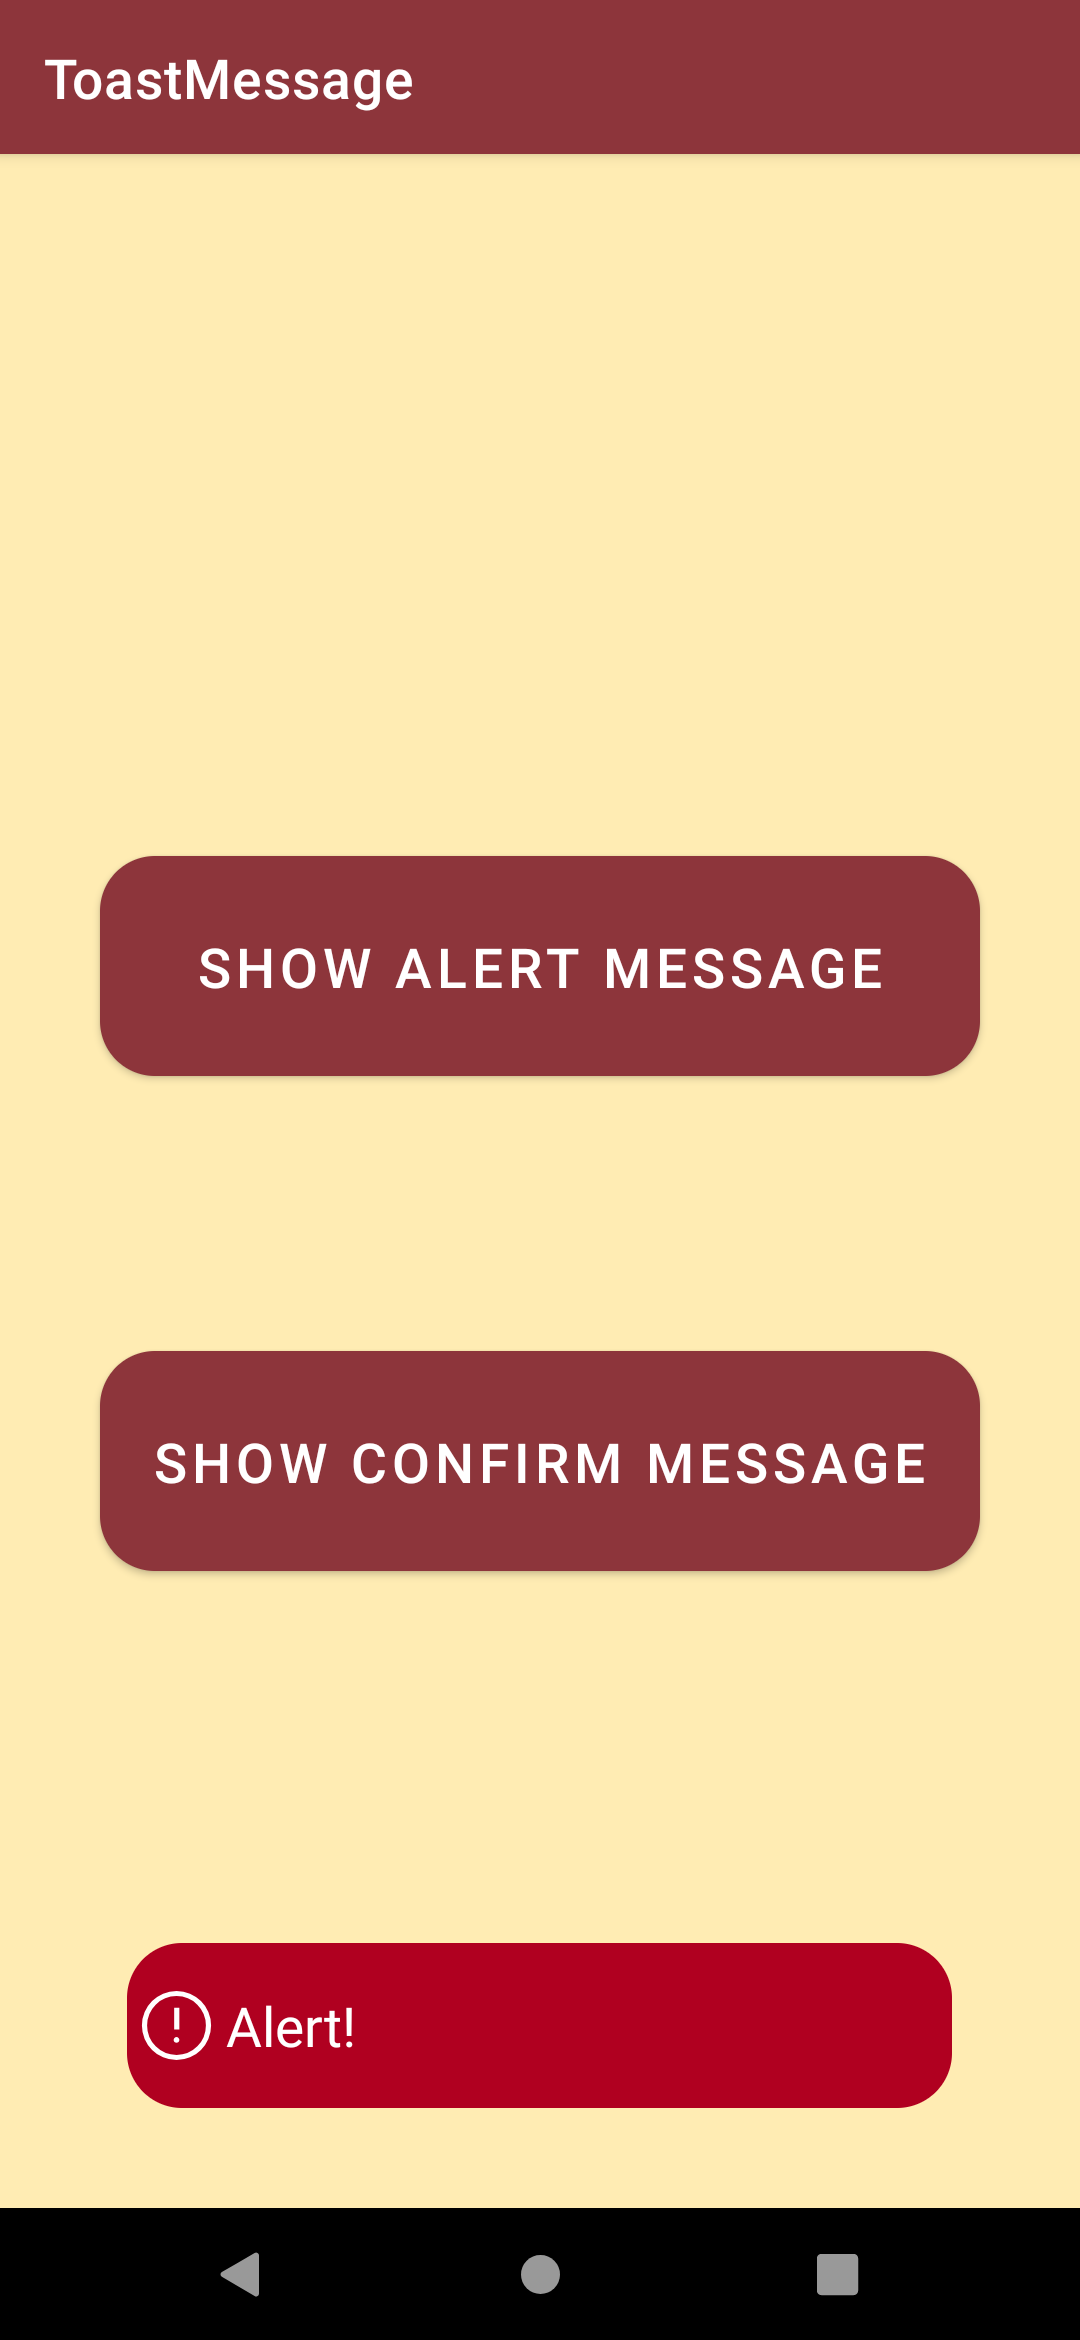
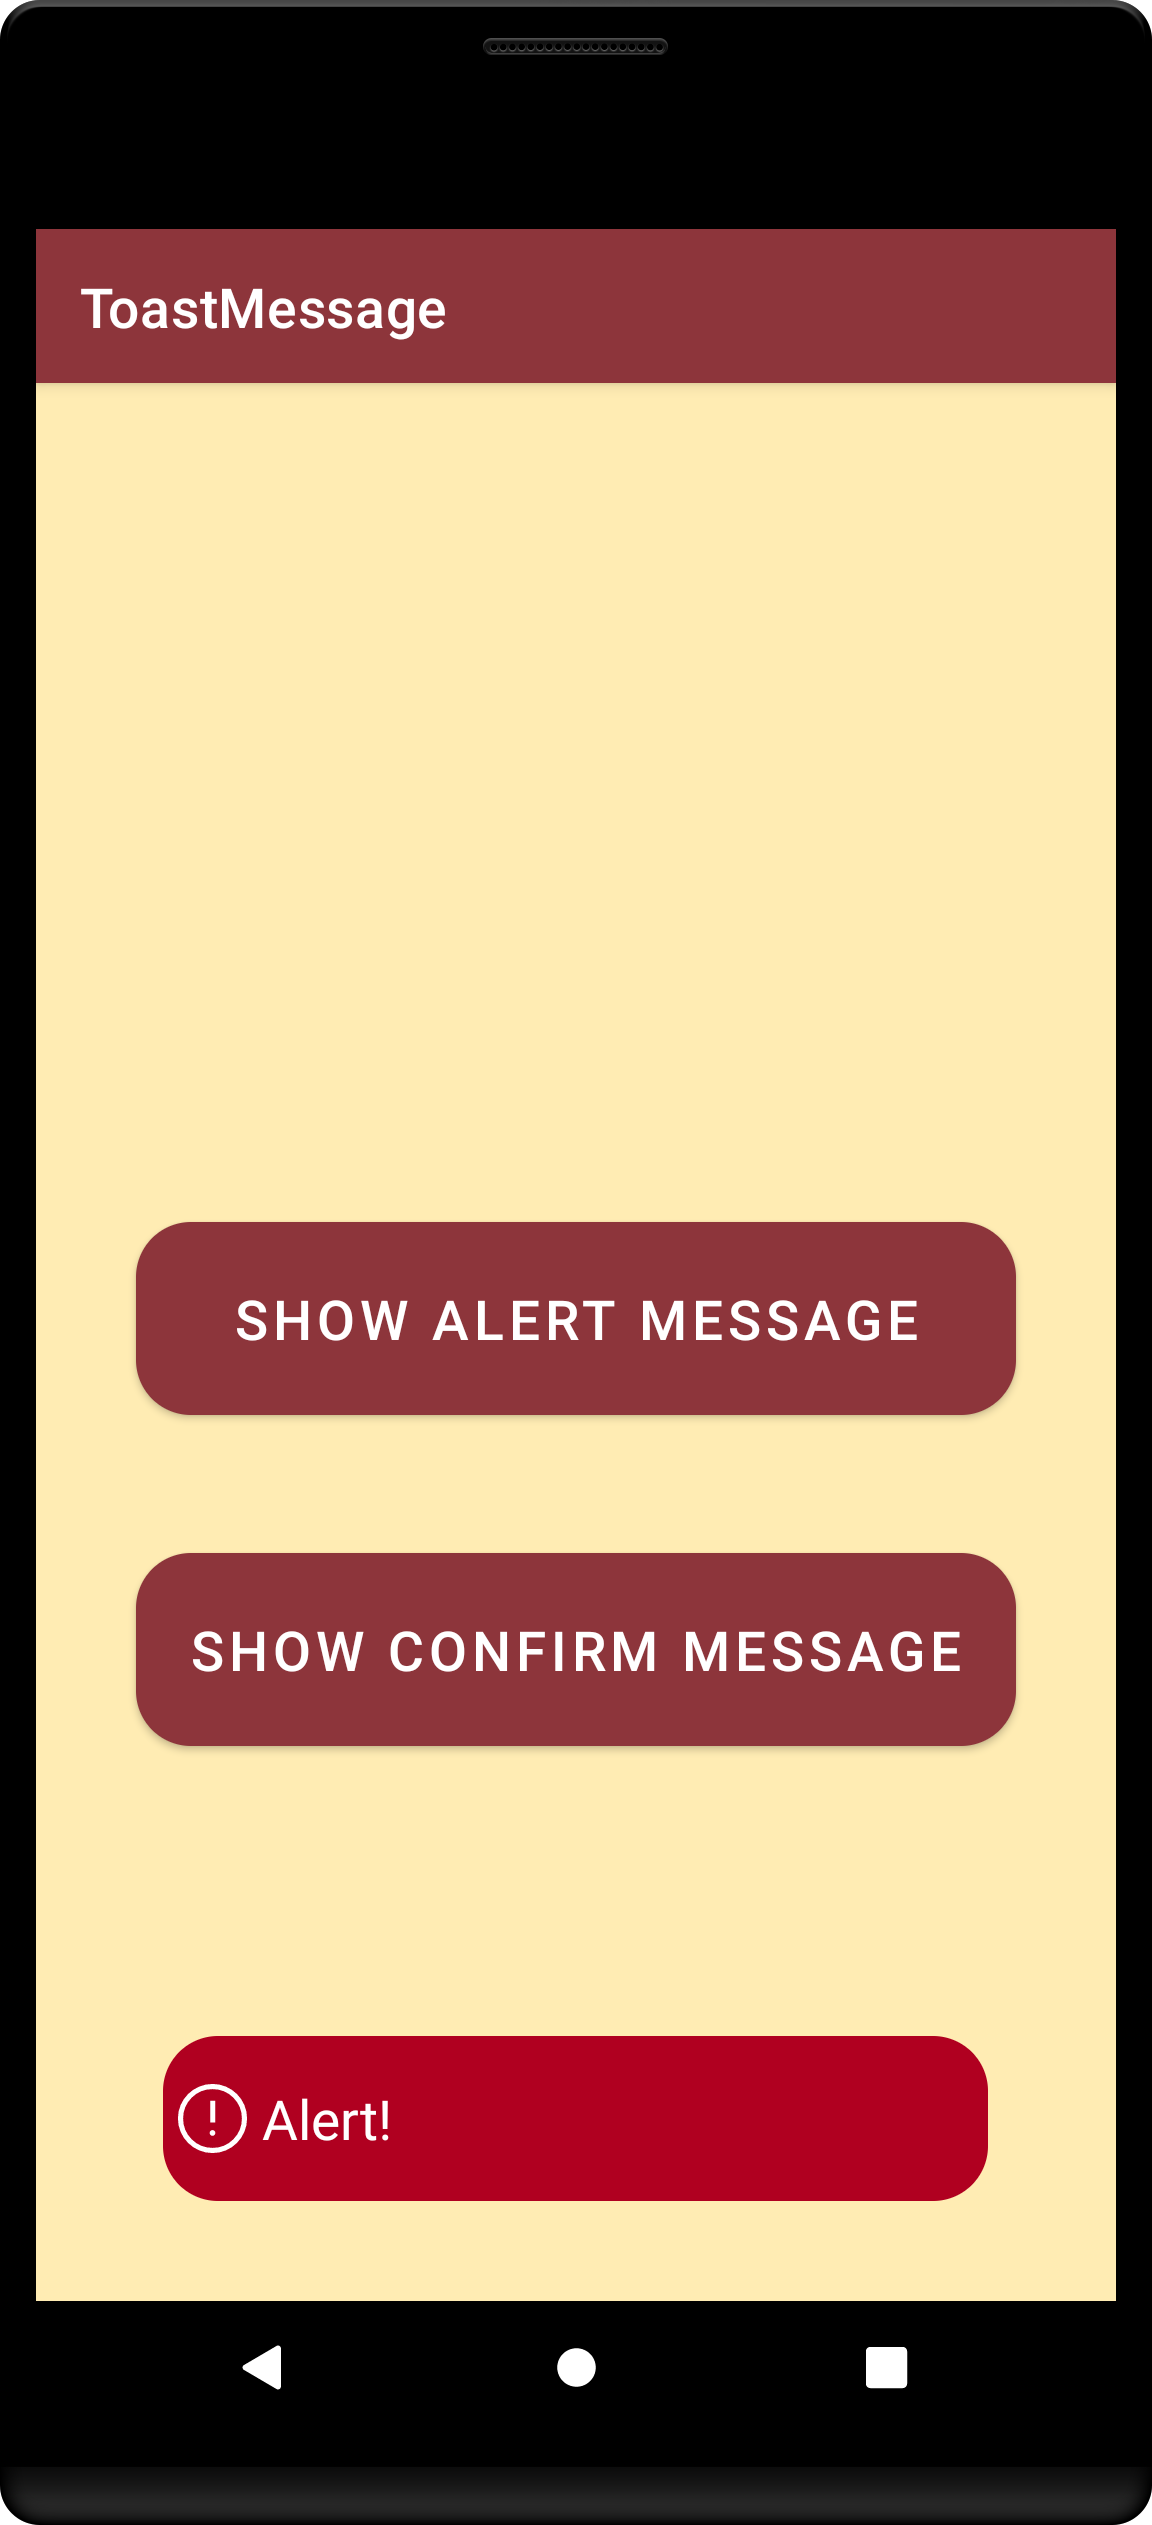
Update toast

diff --git a/app/src/main/java/com/denicks21/toastmessage/MainActivity.kt b/app/src/main/java/com/denicks21/toastmessage/MainActivity.kt
@@ -17,15 +17,15 @@ class MainActivity : AppCompatActivity() {
         btnShowAlertMessage.setOnClickListener {
 
             // Custom toast message of alert
-            val inflater = layoutInflater
-            val layout = inflater.inflate(R.layout.toast_alert, findViewById(R.id.toast_alert_layout))
-            val toastText = layout.findViewById<TextView>(R.id.toastText)
+            val toastLayout = layoutInflater.inflate(R.layout.toast_alert,
+                findViewById(R.id.toast_alert_layout))
+            val toastText = toastLayout.findViewById<TextView>(R.id.toastText)
             toastText.text = "Alert!"
-            val toast = Toast(applicationContext)
-            toast.setGravity(Gravity.BOTTOM, 0, 100)
-            toast.duration = Toast.LENGTH_LONG
-            toast.setView(layout)
-            toast.show()
+            val customToast = Toast(this)
+            customToast.view = toastLayout
+            customToast.setGravity(Gravity.BOTTOM, 0, 10)
+            customToast.duration = Toast.LENGTH_LONG
+            customToast.show()
         }
 
         // Button confirm
@@ -33,15 +33,15 @@ class MainActivity : AppCompatActivity() {
         btnShowConfirmMessage.setOnClickListener {
 
             // Custom toast message of confirm
-            val inflater = layoutInflater
-            val layout = inflater.inflate(R.layout.toast_confirm, findViewById(R.id.toast_confirm_layout))
-            val toastText = layout.findViewById<TextView>(R.id.toastText)
+            val toastLayout = layoutInflater.inflate(R.layout.toast_confirm,
+                findViewById(R.id.toast_confirm_layout))
+            val toastText = toastLayout.findViewById<TextView>(R.id.toastText)
             toastText.text = "Confirm!"
-            val toast = Toast(applicationContext)
-            toast.setGravity(Gravity.BOTTOM, 0, 100)
-            toast.duration = Toast.LENGTH_SHORT
-            toast.setView(layout)
-            toast.show()
+            val customToast = Toast(this)
+            customToast.view = toastLayout
+            customToast.setGravity(Gravity.BOTTOM, 0, 10)
+            customToast.duration = Toast.LENGTH_LONG
+            customToast.show()
         }
     }
 }
